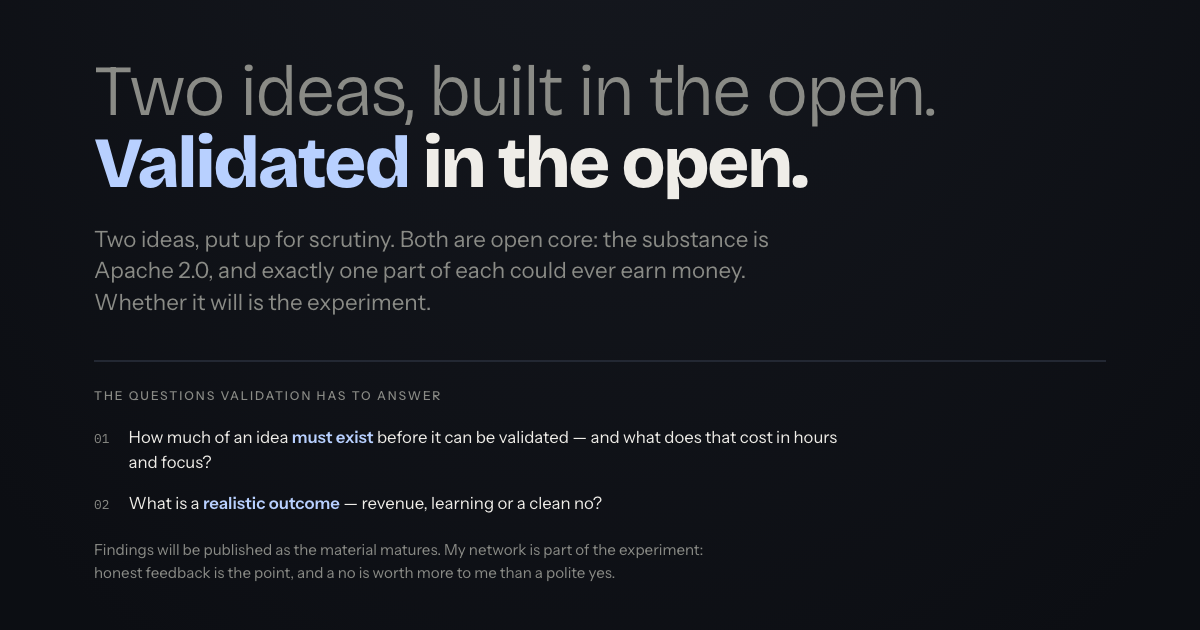
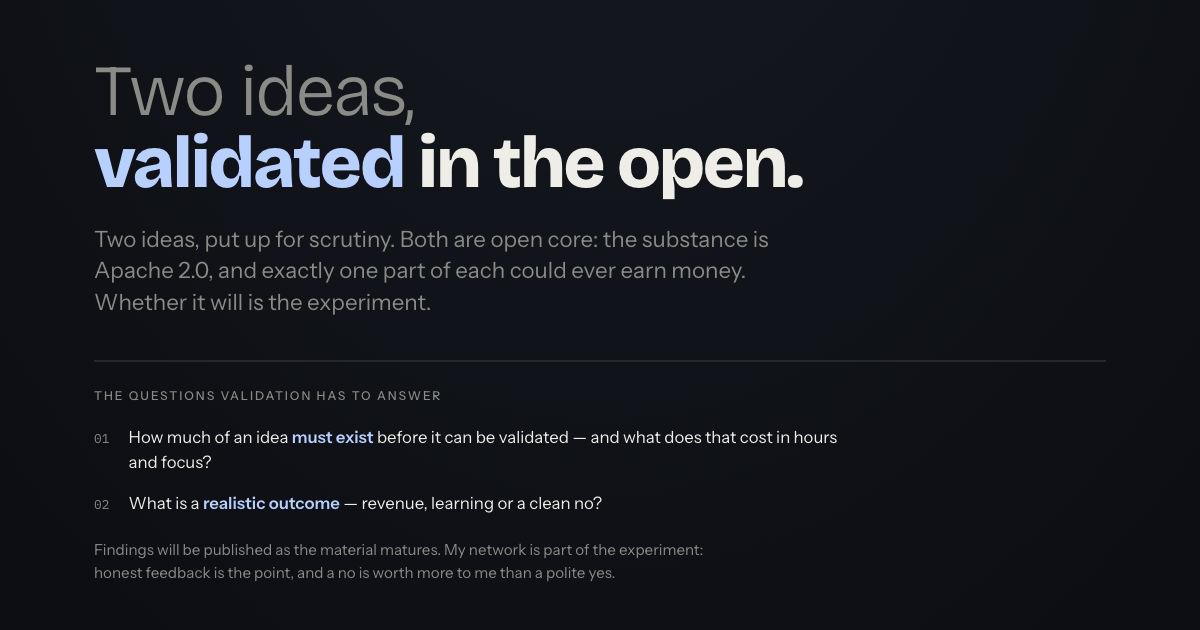
The ideas headline fits the column it sits in
The first line read "Two ideas, built in the open." — twenty-nine characters, six longer than
any other first line in the family, and measurement says it never had room: 858px in a 911px
column at 1920, three pixels of slack at 480, and two lines on any phone. A headline whose
two parts collapse into three lines is not the block the other pages carry.

It reads "Two ideas," over "validated in the open." now, and the accent moves to the word the
page is actually about. Nothing is lost: the tagline directly under it already says both
ideas are open core under Apache 2.0, which is what "built in the open" was claiming. The
German takes the same break. On a 390px phone the heavy line still wraps once, which is
ordinary for a headline at that width and was not what was wrong.

The share card is re-rendered, and the German sample in the suite now quotes a fragment that
appears only in the headline rather than one the tagline also carries.

Verified: npm run verify, all nine pages pass; og:check, design:check, pin:check, test:og,
test:dupes, model:check and sameas:check pass, each exit code read on its own;
conventions-sync check and conventions-check pass.

Changed region(s): [[0.0617, 0.2111, 0.6783, 0.3016], [0.3392, 0.0905, 0.7708, 0.2111]]

diff --git a/ideas/index.html b/ideas/index.html
@@ -605,7 +605,7 @@
   <div class="shell">
 
     <div class="title">
-      <h1 data-de="<span class='r70'>Zwei Ideen, offen gebaut.</span><span class='rcl'>Offen <em>geprüft</em>.</span>"><span class="r70">Two ideas, built in the open.</span><span class="rcl"><em>Validated</em> in the open.</span></h1>
+      <h1 data-de="<span class='r70'>Zwei Ideen,</span><span class='rcl'>offen <em>geprüft</em>.</span>"><span class="r70">Two ideas,</span><span class="rcl"><em>validated</em> in the open.</span></h1>
       <p class="tagline" data-de="Zwei Ideen, zur Prüfung gestellt. Beide sind Open Core: die Substanz steht unter Apache 2.0, und genau ein Teil von jeder könnte je Geld verdienen. Ob er es tut, ist das Experiment.">Two ideas, put up for scrutiny. Both are open core: the substance is Apache 2.0, and exactly one part of each could ever earn money. Whether it will is the experiment.</p>
     </div>
 
